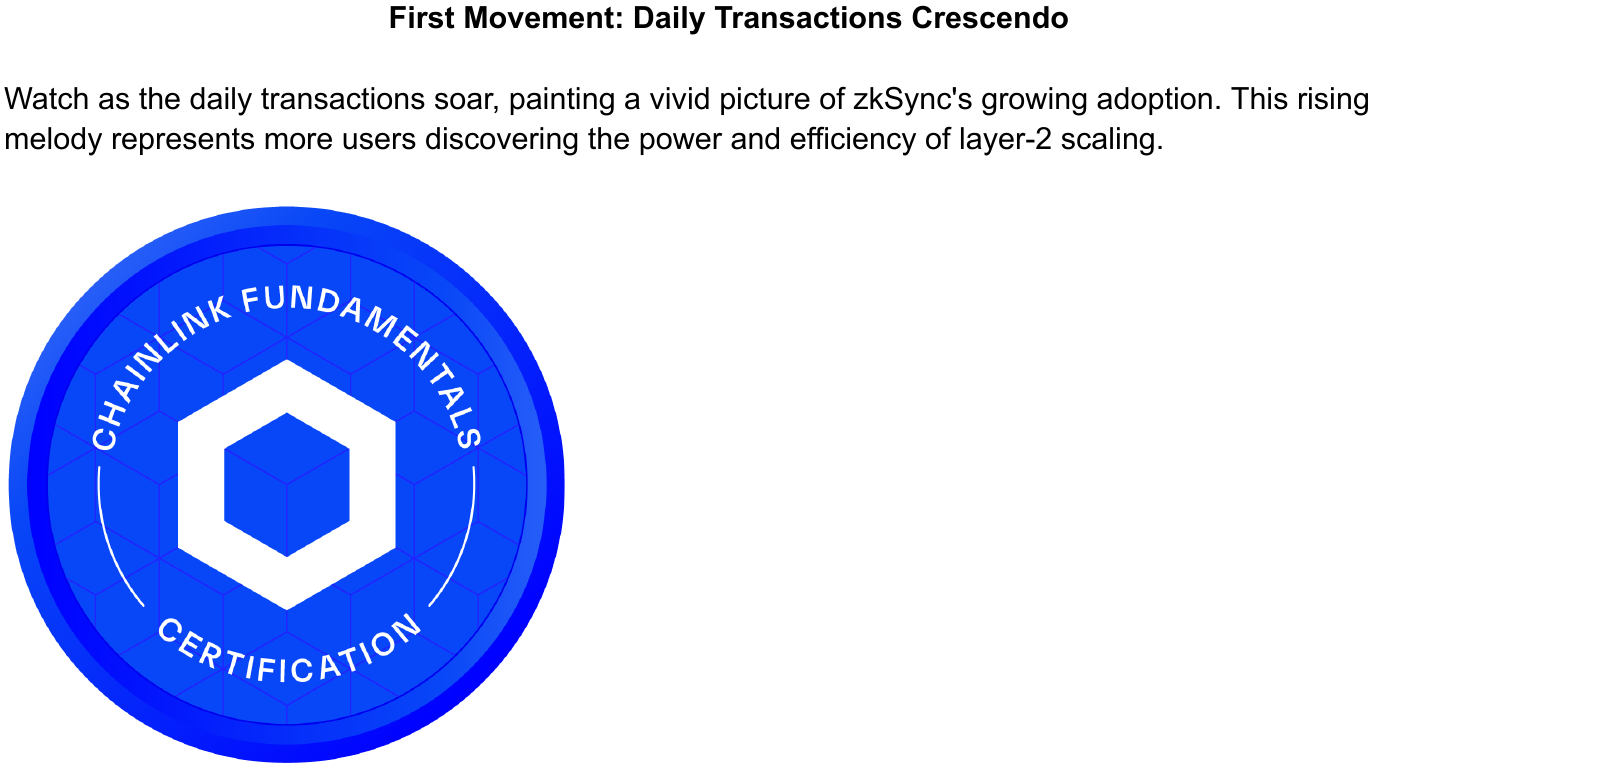
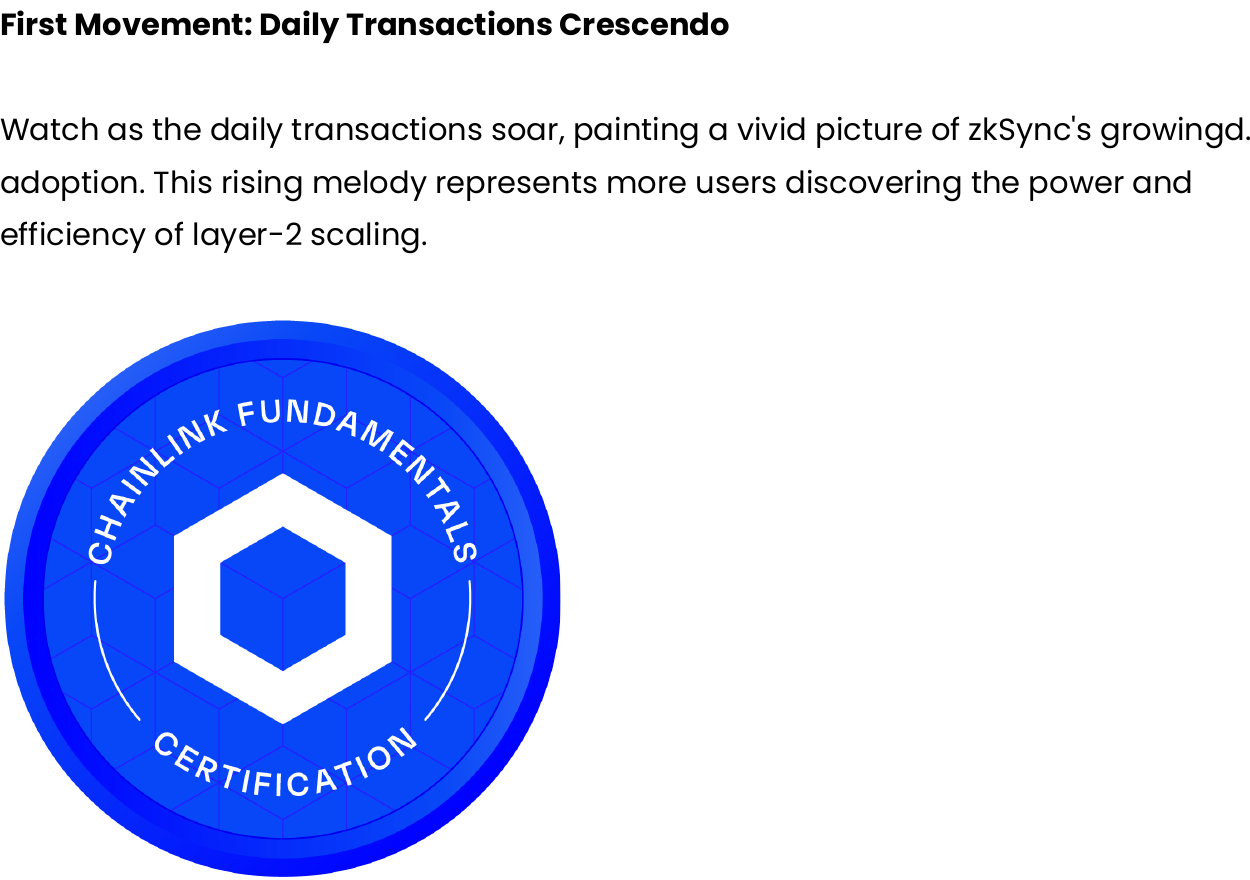
image size and alignment fix

Changed region(s): [[0.0, 0.25, 0.468, 1.0], [0.0, 0.0938, 1.0, 0.2188], [0.0, 0.0, 0.6864, 0.0625]]

diff --git a/update_content.py b/update_content.py
@@ -1,5 +1,5 @@
 from googleapiclient.http import MediaFileUpload
-from auth import service, drive_service, firebase_admin  # Connect Google Docs and Drive API clients
+from auth import service, drive_service # Connect Google Docs and Drive API clients
 from dotenv import load_dotenv
 import os
 import json
@@ -57,6 +57,7 @@ def update_document_content():
     doc = service.documents().get(documentId=DOCUMENT_ID).execute()
     content_length = doc.get('body').get('content')[-1].get('endIndex') - 1
 
+    # Clear previous content
     clear_request = [
         {
             'deleteContentRange': {
@@ -71,13 +72,15 @@ def update_document_content():
     service.documents().batchUpdate(
         documentId=DOCUMENT_ID, body={'requests': clear_request}).execute()
 
+    # Define header and body texts
     header_text = "First Movement: Daily Transactions Crescendo"
     body_text = (
-        "Watch as the daily transactions soar, painting a vivid picture of zkSync's growing adoption. "
+        "Watch as the daily transactions soar, painting a vivid picture of zkSync's growingd. adoption. "
         "This rising melody represents more users discovering the power and efficiency of layer-2 scaling."
     )
     additional_line_breaks = "\n" * 2
 
+    # Format header text
     header_request = [
         {
             'insertText': {
@@ -103,9 +106,6 @@ def update_document_content():
                     'startIndex': 1,
                     'endIndex': len(header_text) + 1,
                 },
-                'paragraphStyle': {
-                    'alignment': 'CENTER'
-                },
                 'fields': 'alignment'
             }
         }
@@ -117,6 +117,29 @@ def update_document_content():
                 'location': {'index': len(header_text) + 3},
                 'text': body_text + additional_line_breaks
             }
+        },
+        {
+            'updateTextStyle': {
+                'range': {
+                    'startIndex': len(header_text) + 3,
+                    'endIndex': len(header_text) + 3 + len(body_text),
+                },
+                'textStyle': {
+                    'weightedFontFamily': {
+                        'fontFamily': 'Poppins'
+                    }
+                },
+                'fields': 'weightedFontFamily'
+            }
+        },
+        {
+            'updateParagraphStyle': {
+                'range': {
+                    'startIndex': len(header_text) + 3,
+                    'endIndex': len(header_text) + 3 + len(body_text),
+                },
+                'fields': 'alignment'
+            }
         }
     ]
 
@@ -126,13 +149,16 @@ def update_document_content():
     print("Document updated with formatted header and body text!")
     time.sleep(5)
 
+    # Load image ID from data.json or upload a new image to Drive
     with open("data.json", "r") as file:
         data = json.load(file)
 
     image_file_id = data['footer'] if data['footer'] else upload_image_to_drive(IMAGE_PATH)
 
+    # Calculate the image insertion index
     image_index = len(header_text) + len(body_text) + len(additional_line_breaks) + 3
 
+    # Insert image
     insert_image_request = [
         {
             'insertInlineImage': {

diff --git a/file_converter.py b/file_converter.py
@@ -6,7 +6,11 @@ def convert_pdf_to_jpg(pdf_path, output_path):
     image_paths = []
 
     for i, image in enumerate(images):
-        cropped_image = image.crop((0, 0, 1600, 768))
+        cropped_image = image.crop((200, 0, 1450, 880))  # 880 lower crop bound
         cropped_image.save(output_path, 'PNG')
         image_paths.append(output_path)
         print(f"Saved page {i + 1} as PNG at {output_path}")
+
+
+if __name__ == '__main__':
+    convert_pdf_to_jpg("IMG1.pdf", "IMG1.png")

diff --git a/main.py b/main.py
@@ -1,4 +1,4 @@
-from update_content import update_document_content
+from update_content import update_document_content, upload_image_to_firebase
 from file_converter import convert_pdf_to_jpg
 from downloader import download_doc_as_pdf
 
@@ -7,3 +7,4 @@ if __name__ == '__main__':
     doc_id = update_document_content()
     download_doc_as_pdf(doc_id=doc_id, output_path="IMG1.pdf")
     convert_pdf_to_jpg("IMG1.pdf", "IMG1.png")
+    firebase_url = upload_image_to_firebase("IMG1.png")
